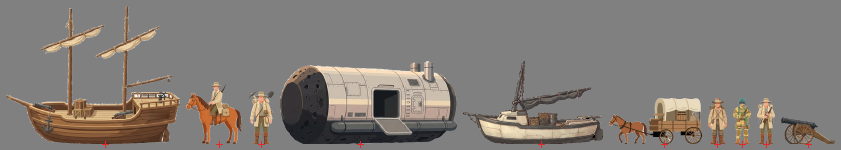
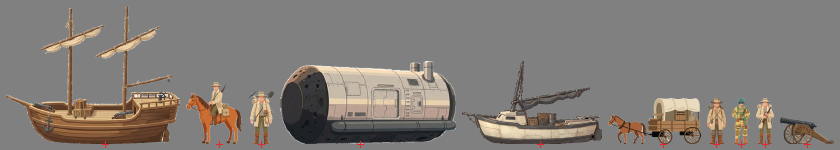
The lander comes down under its parachute, and its door is shut
While the opening lines fade in, the lander falls in stages along an arc under its parachute, one
stage as each line comes, shrinking as it falls away, and fades into the lander on the water with a
ring and its steam. The map shows the lander only once it is down, below the lines. The lander on the
water is redrawn with its door shut. DECISIONS.md 204.

Claude-Session: https://claude.ai/code/session_01UnwF8UyZDWb3Ujp9A9GwjM

diff --git a/src/ui/opening.ts b/src/ui/opening.ts
@@ -5,7 +5,7 @@
 // Nothing here reads or writes the state.
 
 import { h } from './dom'
-import { OPENING_LINE_MS, OPENING_FADE_MS } from './theme'
+import { OPENING_LINE_MS, OPENING_FADE_MS, OPENING_LINE_FADE_MS, OPENING_FIRST_MS, DESCENT } from './theme'
 
 /** The five lines, exactly as the setting brief has them. */
 export const OPENING_LINES = [
@@ -24,19 +24,95 @@ export interface Opening {
   readonly showing: boolean
 }
 
-export function mountOpening(root: HTMLElement, onDismiss?: () => void): Opening {
+/** What the descent needs of the app: where the lander lies on the screen now, and how wide it is
+ *  drawn there, in CSS pixels; and what to do when it has come down. */
+export interface DescentHooks {
+  target(): { x: number; y: number; w: number } | null
+  landed(): void
+}
+
+/** The lander under its parachute, coming down behind the lines (DECISIONS.md 204). Returns what
+ *  ends it at once, as a tap on the opening does. */
+function startDescent(root: HTMLElement, hooks: DescentHooks): () => void {
+  let landed = false
+  const land = (at: { x: number; y: number; w: number } | null) => {
+    if (landed) return
+    landed = true
+    hooks.landed()
+    if (!at) return
+    const ring = h('i', { class: 'splash', 'aria-hidden': 'true' })
+    ring.style.left = `${at.x}px`
+    ring.style.top = `${at.y}px`
+    ring.style.setProperty('--splash-w', `${at.w}px`)
+    root.append(ring)
+    window.setTimeout(() => ring.remove(), DESCENT.splashMs + 100)
+  }
+  if (typeof window.matchMedia === 'function' && window.matchMedia('(prefers-reduced-motion: reduce)').matches) { land(null); return () => {} }
+  const img = h('img', { id: 'descent', src: 'textures/descent.png', alt: '', 'aria-hidden': 'true' }) as HTMLImageElement
+  img.style.transformOrigin = DESCENT.swingFrom
+  root.append(img)
+  const lineAt = (i: number) => OPENING_FIRST_MS + i * OPENING_LINE_MS
+  const end = lineAt(DESCENT.stages.length - 1) + OPENING_LINE_FADE_MS + DESCENT.settleMs
+  const keys = [...DESCENT.stages.map((u, i) => ({ t: lineAt(i), u })), { t: end, u: 1 }]
+  const smooth = (x: number) => x * x * (3 - 2 * x)
+  const start = performance.now()
+  let raf = 0
+  let gone = false
+  const frame = () => {
+    const t = performance.now() - start
+    const W = window.innerWidth, H = window.innerHeight
+    const to = hooks.target() ?? { x: W / 2, y: H * 0.6, w: W * 0.2 }
+    let u = 1
+    if (t < keys[0].t) u = 0
+    else for (let k = 0; k < keys.length - 1; k++) {
+      if (t >= keys[k].t && t < keys[k + 1].t) { u = keys[k].u + (keys[k + 1].u - keys[k].u) * smooth((t - keys[k].t) / (keys[k + 1].t - keys[k].t)); break }
+    }
+    // a quadratic arc from high on the right, bowing out further right, down onto the lander
+    const sx = W * DESCENT.startX, sy = H * DESCENT.startY
+    const cx = Math.max(sx, to.x) + W * DESCENT.bulge, cy = (sy + to.y) / 2
+    const x = (1 - u) * (1 - u) * sx + 2 * (1 - u) * u * cx + u * u * to.x
+    const y = (1 - u) * (1 - u) * sy + 2 * (1 - u) * u * cy + u * u * to.y
+    // it shrinks as it falls away from the eye, by the same share each stage, to the lander's size
+    const w0 = Math.min(W * DESCENT.startW, DESCENT.maxStartPx), w1 = to.w / DESCENT.capsule
+    const w = w0 * Math.pow(w1 / w0, u)
+    const ratio = img.naturalWidth ? img.naturalHeight / img.naturalWidth : 1.19
+    const fadeIn = Math.min(1, Math.max(0, (t - keys[0].t) / OPENING_LINE_FADE_MS))
+    const fadeOut = 1 - Math.min(1, Math.max(0, (t - (end - DESCENT.outMs)) / DESCENT.outMs))
+    const sway = DESCENT.swayDeg * Math.sin((t / OPENING_LINE_MS) * Math.PI * 2) * (1 - u)
+    img.style.width = `${w}px`
+    img.style.transform = `translate(${x - w * DESCENT.anchorX}px, ${y - w * ratio * DESCENT.anchorY}px) rotate(${sway}deg)`
+    img.style.opacity = String(fadeIn * fadeOut * DESCENT.opacity)
+    if (t >= end - DESCENT.outMs / 2) land(to)
+    if (t < end && !gone) raf = requestAnimationFrame(frame)
+    else img.remove()
+  }
+  raf = requestAnimationFrame(frame)
+  // a tap: it is down at once, and the picture of it goes with the lines
+  return () => {
+    if (gone) return
+    gone = true
+    cancelAnimationFrame(raf)
+    img.classList.add('gone')
+    window.setTimeout(() => img.remove(), OPENING_FADE_MS + 50)
+    land(null)
+  }
+}
+
+export function mountOpening(root: HTMLElement, onDismiss?: () => void, descent?: DescentHooks): Opening {
   const lines = OPENING_LINES.map(text => h('p', { class: 'line' }, text))
   const el = h('div', { id: 'opening', 'aria-live': 'polite' }, ...lines)
   root.append(el)
   const timers: number[] = []
   // the first line a beat after the frame, so it arrives over the picture rather than with it
-  lines.forEach((line, i) => timers.push(window.setTimeout(() => line.classList.add('in'), 400 + i * OPENING_LINE_MS)))
+  lines.forEach((line, i) => timers.push(window.setTimeout(() => line.classList.add('in'), OPENING_FIRST_MS + i * OPENING_LINE_MS)))
+  const endDescent = descent ? startDescent(root, descent) : null
   let showing = true
   const dismiss = () => {
     if (!showing) return
     showing = false
     for (const t of timers) clearTimeout(t)
     el.classList.add('gone')
+    endDescent?.()
     window.setTimeout(() => el.remove(), OPENING_FADE_MS + 50)
     document.removeEventListener('pointerdown', dismiss, true)
     onDismiss?.()

diff --git a/src/ui/app.ts b/src/ui/app.ts
@@ -39,9 +39,10 @@ import { unitCard, passengerCard, tileCard, type Card } from './card'
 import { h, clear, append, button, row, muted, fmt, plural } from './dom'
 import { renderSheet, type SheetSpec } from './sheets'
 import { ownSettlements, type RingCell, type BuildingSlot } from './selectors'
-import { SHEET_DISMISS_PX, TAP_MIN_PX, RUN_SUMMARY_LINES, BAR_TITLE_CHARS, installTheme } from './theme'
+import { SHEET_DISMISS_PX, TAP_MIN_PX, RUN_SUMMARY_LINES, BAR_TITLE_CHARS, DESCENT, installTheme } from './theme'
 import { installIcons, icon, isGood, SEASON_ICONS, type IconName } from './icons'
-import { goodMark, queueIcon, dispatchIcon } from './pictures'
+import { goodMark, queueIcon, dispatchIcon, UNITS_SHEET, unitPiece } from './pictures'
+import { drawnSize } from '../render/units'
 import { mountOpening, type Opening } from './opening'
 import { TurnRunner, queueKeys } from './turns'
 import * as Save from '../io/save'
@@ -208,14 +209,31 @@ export class App {
    *  player's: it takes the lines away and starts the music, and nothing was ever blocked. */
   beginArrival() {
     this.scene.cam.centreOn(this.homeTile(), C.feel.zoom.working)
+    // the lander below the lines, so it comes down into clear water (decision 204): the view is
+    // centred that many rows of tiles north of it
+    {
+      const home = this.homeTile(), w = this.state.world.width
+      const x = (home % w) + 0.5, z = Math.floor(home / w) + 0.5
+      const [, y0] = this.scene.cam.worldToScreen(x, z)
+      const [, y1] = this.scene.cam.worldToScreen(x, z + 1)
+      const rows = Math.round(((DESCENT.landerAtY - 0.5) * window.innerHeight) / Math.max(1, Math.abs(y1 - y0)))
+      const north = Math.max(0, Math.floor(home / w) - rows) * w + (home % w)
+      if (rows > 0) this.scene.cam.centreOn(north, C.feel.zoom.working)
+    }
     this.scene.requestDraw()
     this.sheet = { kind: 'queue' }
     this.queueExpanded = false
     this.foundTarget = null
     this.scene.foundPreview = null
     this.opening?.dismiss()
-    // the lines gone, the lander is chosen, so its card says what to do: hold where to sail (decision 202)
-    this.opening = mountOpening(this.root, () => window.setTimeout(() => this.chooseLander(), 0))
+    // the lander comes down under its parachute while the lines fade in, and is on the water only
+    // once it has (decision 204); the lines gone, it is chosen, so its card says what to do (202)
+    const lander = this.state.units.find(u => u.owner === 0 && u.kind === 'lander')
+    if (lander) this.scene.hideForDescent(lander.id)
+    this.opening = mountOpening(this.root, () => window.setTimeout(() => this.chooseLander(), 0), lander ? {
+      target: () => this.onScreen(lander.id),
+      landed: () => this.scene.revealAfterDescent(DESCENT.revealMs),
+    } : undefined)
     Telemetry.newGame()
     this.refresh()
   }
@@ -694,6 +712,21 @@ export class App {
     if (typeof navigator !== 'undefined' && typeof navigator.vibrate === 'function') { try { navigator.vibrate(C.feel.holdVibrateMs) } catch { /* not everywhere */ } }
     this.renderQueueBar()
     this.placeCoach()
+  }
+
+  /** Where a unit stands on the screen and how wide it is drawn there, in CSS pixels: the middle of
+   *  its picture, for something drawn over the map to come down onto it. */
+  onScreen(unitId: number): { x: number; y: number; w: number } | null {
+    const u = this.state.units.find(x => x.id === unitId)
+    const piece = u ? UNITS_SHEET.pieces[unitPiece(u.kind) ?? ''] : undefined
+    if (!u || !piece) return null
+    const w = this.state.world.width
+    const x = (u.tile % w) + 0.5, z = Math.floor(u.tile / w) + 0.5
+    const [sx, sy] = this.scene.cam.worldToScreen(x, z)
+    const [sx2] = this.scene.cam.worldToScreen(x + 1, z)
+    const tile = Math.abs(sx2 - sx)
+    const size = drawnSize(piece)
+    return { x: sx, y: sy - size.height * tile * 0.5, w: size.width * tile }
   }
 
   /** Before the first settlement, the lander chosen whenever nothing else is, so the card under the

diff --git a/src/ui/theme.ts b/src/ui/theme.ts
@@ -40,6 +40,34 @@ export const OPENING_LINE_MS = 3500
 export const OPENING_FADE_MS = 900
 /** Each opening line's own fade in, slow enough to arrive rather than appear. */
 export const OPENING_LINE_FADE_MS = 1400
+/** The first line comes this long after the frame, so it arrives over the picture rather than with it. */
+export const OPENING_FIRST_MS = 400
+
+/** The lander coming down under its parachute while the lines fade in (DECISIONS.md 204). It falls in
+ *  stages, one as each line fades in, along an arc from high on the right to where the lander lies,
+ *  shrinking as it falls away from the eye, and splashes down a beat after the last line is in. */
+export const DESCENT = {
+  /** Where it starts, as shares of the screen, and how wide: a share of the screen, at most so many pixels. */
+  startX: 0.78, startY: 0.1, startW: 0.55, maxStartPx: 320,
+  /** How far the arc bows out to the right of a straight fall, as a share of the screen's width. */
+  bulge: 0.14,
+  /** How far along the arc it has come as each line begins to fade in. */
+  stages: [0, 0.16, 0.36, 0.58, 0.8],
+  /** From the last line fully in to splashdown. */
+  settleMs: 1400,
+  /** The fade out into the lander on the water, and the lander's fade in on the water. */
+  outMs: 1100, revealMs: 1400,
+  /** In the picture: the middle of the capsule, which comes down onto the lander, as shares of its
+   *  width and height; the share of its width the capsule takes; and the canopy, which it swings from. */
+  anchorX: 0.33, anchorY: 0.8, capsule: 0.7, swingFrom: '66% 0%',
+  /** The swing under the canopy, in degrees, dying away as it comes down; and how solid it is drawn. */
+  swayDeg: 5, opacity: 0.95,
+  /** The ring on the water at splashdown. */
+  splashMs: 1600,
+  /** Where on the screen the lander lies during the opening, as a share of its height: below the
+   *  lines, so it comes down into clear water. */
+  landerAtY: 0.7,
+}
 
 /** Version 2's ring cell and building slot. The settlement screen no longer uses them (version 3
  *  sizes its ring from the space it has); the founding preview's ring and the full screens still
@@ -218,6 +246,11 @@ export const TOKENS: Record<string, string> = {
   '--coach-small': '0.82',
   '--coach-big': '1.12',
   '--coach-nudge': '1.6',
+  // the ring on the water where the lander comes down (decision 204)
+  '--splash-ink': 'rgba(242,236,224,0.85)',
+  '--splash-flat': '0.45',
+  '--splash-grow': '2.2',
+  '--splash-ms': '1600ms',
   '--hold-ring-hole': '22px',
   '--sheet-max-h': '72vh',
   '--runsum-max-h': '50vh',       // what the turns that ran on brought, at most half the screen

diff --git a/src/render/scene.ts b/src/render/scene.ts
@@ -126,6 +126,8 @@ export class Scene {
   siteMarks: number[] | null = null
   /** The beaching: the settlement and the boat coming up out of nothing while the lander goes. */
   private fading: { k: number; settlements: Set<number>; units: Set<number> } | null = null
+  /** The opening's descent is in the air: the lander is not on the water yet, nor its steam. */
+  private descending = false
   private ghost: THREE.InstancedMesh | null = null
   beaching = false
   /** A move being drawn, between being prepared before the action and finishing after it. */
@@ -488,8 +490,35 @@ export class Scene {
     this.arrival = ab.group
     this.steamCount = ab.steaming
     if (ab.steaming && this.steamTurn !== s.turn) { this.steamTurn = s.turn; this.steamSince = performance.now() }
-    if (this.arrival) this.scene.add(this.arrival)
+    if (this.arrival) { this.arrival.visible = !this.descending; this.scene.add(this.arrival) }
     if (this.steaming()) this.startLoop()
+  }
+
+  /** The opening's descent (DECISIONS.md 204): the lander is not drawn on the water, nor its steam,
+   *  while the picture of it under its parachute comes down over the lines. */
+  hideForDescent(landerId: number) {
+    this.descending = true
+    this.fading = { k: 0, settlements: new Set(), units: new Set([landerId]) }
+    this.applyFades()
+    if (this.arrival) this.arrival.visible = false
+    this.requestDraw()
+  }
+
+  /** Splashdown: the lander comes up on the water over `ms`, and its steam starts rising now. */
+  revealAfterDescent(ms: number) {
+    if (!this.descending) return
+    this.descending = false
+    if (this.arrival) this.arrival.visible = true
+    this.steamSince = performance.now()
+    const start = performance.now()
+    const step = () => {
+      const k = Math.min(1, (performance.now() - start) / Math.max(1, ms))
+      if (this.fading && !this.beaching) { this.fading.k = k * k * (3 - 2 * k); this.applyFades() }
+      if (!this.loopRunning) this.draw(true)
+      if (k < 1) requestAnimationFrame(step)
+      else { if (!this.beaching) { this.fading = null; this.applyFades() } this.requestDraw(); if (this.steaming()) this.startLoop() }
+    }
+    requestAnimationFrame(step)
   }
 
   /** The beaching, onboarding brief section 2. The state has already changed: the lander is gone,

diff --git a/src/ui/style.css b/src/ui/style.css
@@ -116,6 +116,18 @@ body {
   transition: opacity var(--opening-fade-ms) var(--ease);
 }
 #opening.gone { opacity: 0; }
+/* the lander under its parachute, behind the lines and over the map (decision 204) */
+#descent { position: fixed; left: 0; top: 0; z-index: 2; pointer-events: none; opacity: 0; will-change: transform, opacity; }
+#descent.gone { opacity: 0 !important; transition: opacity var(--opening-fade-ms) var(--ease); }
+/* the ring on the water at splashdown */
+.splash {
+  position: fixed; z-index: 2; pointer-events: none; width: var(--splash-w); height: calc(var(--splash-w) * var(--splash-flat));
+  margin: calc(var(--splash-w) * var(--splash-flat) / -2) 0 0 calc(var(--splash-w) / -2);
+  border-radius: 50%; border: var(--coach-line) solid var(--splash-ink);
+  animation: splash var(--splash-ms) var(--ease) forwards;
+}
+@keyframes splash { from { transform: scale(0.4); opacity: 0.9; } to { transform: scale(var(--splash-grow)); opacity: 0; } }
+@media (prefers-reduced-motion: reduce) { .splash { display: none; } }
 #opening .line {
   /* not the list row of the same class: no rule beneath, no row padding */
   display: block; border: none; padding: 0; min-height: 0;

diff --git a/src/render/look.ts b/src/render/look.ts
@@ -518,7 +518,7 @@ export const ARRIVAL = {
   wake: { length: 0.9, width: 0.16, colour: '#d9e6e3', opacity: 0.55 },
   /** The steam: how many puffs, how long one lives in seconds, how far it rises and drifts in tiles
    *  (up the screen and to the right, off the wind), how large it starts and ends, and its colour. */
-  plume: { count: 7, life: 3.2, rise: 0.75, drift: 0.55, sizeFrom: 0.1, sizeTo: 0.36, colour: '#f2ece0', opacity: 0.72, stacks: [0.3, 0.72] as [number, number] },
+  plume: { count: 7, life: 3.2, rise: 0.75, drift: 0.55, sizeFrom: 0.1, sizeTo: 0.36, colour: '#f2ece0', opacity: 0.72, stacks: [0.34, 0.9] as [number, number] },
   /** How long the steam rises on a turn it is shown, in seconds from the turn's first picture of it,
    *  and how long it then takes to thin to nothing. The frame loop runs only while it does: steam
    *  that never stopped would keep the loop going under a unit sitting chosen. */

diff --git a/scripts/key-board.py b/scripts/key-board.py
@@ -13,7 +13,8 @@
 #
 # Run with:  python3 scripts/key-board.py SOURCE.jpg OUT.png DARK LIGHT
 #            DARK and LIGHT are the board's two greys, read off its corner squares. A sixth argument,
-#            faded, peels back ground drawn fading into the board.
+#            faded, peels back ground drawn fading into the board; deep, board tinted by sparks or
+#            streaks drawn over it, and pieces under 8000 pixels.
 # Needs numpy, scipy and opencv (cv2).
 
 import sys
@@ -23,7 +24,7 @@ import numpy as np
 from scipy import ndimage
 
 
-def key(path, greys, out, faded=False):
+def key(path, greys, out, faded=False, deep=False):
     a = cv2.imread(path).astype(np.float32)
     lum = a.mean(axis=2)
     chroma = a.max(axis=2) - a.min(axis=2)
@@ -46,9 +47,10 @@ def key(path, greys, out, faded=False):
     fg = (mask == cv2.GC_FGD) | (mask == cv2.GC_PR_FGD)
     # board along the edge, peeled off
     boardish = np.zeros(lum.shape, bool)
+    # deep: board tinted by sparks or streaks drawn over it, peeled however far it reaches
     for g in greys:
-        boardish |= (chroma < 16) & (np.abs(lum - g) < 26)
-    for _ in range(16):
+        boardish |= (chroma < (24 if deep else 16)) & (np.abs(lum - g) < 26)
+    for _ in range(90 if deep else 16):
         touching = ndimage.binary_dilation(~fg) & fg & boardish
         if not touching.any():
             break
@@ -87,7 +89,7 @@ def key(path, greys, out, faded=False):
     fg = ndimage.binary_opening(fg, np.ones((3, 3)))
     lbl, n = ndimage.label(fg)
     sizes = ndimage.sum(fg, lbl, range(1, n + 1))
-    fg = np.isin(lbl, [i + 1 for i in range(n) if sizes[i] > 4000])
+    fg = np.isin(lbl, [i + 1 for i in range(n) if sizes[i] > (8000 if deep else 4000)])
     holes = ndimage.binary_fill_holes(fg) & ~fg
     hl, hn = ndimage.label(holes)
     hs = ndimage.sum(holes, hl, range(1, hn + 1))
@@ -99,5 +101,5 @@ def key(path, greys, out, faded=False):
 
 if __name__ == '__main__':
     src, out, dark, light = sys.argv[1], sys.argv[2], float(sys.argv[3]), float(sys.argv[4])
-    key(src, [dark, light], out, faded=len(sys.argv) > 5 and sys.argv[5] == 'faded')
+    key(src, [dark, light], out, faded='faded' in sys.argv[5:], deep='deep' in sys.argv[5:])
     print(f'{out} keyed from {src}')

diff --git a/scripts/extract-sprites.py b/scripts/extract-sprites.py
@@ -356,12 +356,10 @@ UNITS = [
          strip=3, component=1500, resolution=0.6,
          plates=[dict(box=(770, 660, 920, 780), colour=(214, 198, 172), tolerance=38, grain=(1.0, 0.0))],
          waterline=800),
-    dict(name='lander', source='lander.jpg', people=1.8,
-         # a two toned board: the neutral checker above, a blue grey one below row 615
-         boards=[dict(rows=(0, 615)),
-                 dict(rows=(615, 1024), dark=186.0, light=222.0, tint=(0, 5, 7), low=0.92, high=1.06, chroma=12)],
-         smoke=True, resolution=0.6,
-         waterline=640),
+    # the lander, its door shut for the voyage (DECISIONS.md 204). Drawn on white, keyed first by
+    # scripts/key-board.py (lander-closed.jpg 252 252)
+    dict(name='lander', source='lander-closed.png', people=1.8, keyed=True, resolution=0.6,
+         waterline=650),
     # the lighter, the boat the lander carried, built of the lander's own panels (DECISIONS.md 201).
     # Drawn on a black and mid grey board that colour cannot key, so it is keyed first by
     # scripts/key-board.py (lighter.jpg 3 137)

diff --git a/DECISIONS.md b/DECISIONS.md
@@ -3669,6 +3669,26 @@ that starts from nothing.
   shop and the rest are drawn as the lander, once, and named "in the lander". The rules are as they
   were. A game saved before this shows the lander alone until its next building is finished.
 
+### 204. The lander comes down under its parachute while the opening is read
+
+From the owner, 22 November 2026, with two new drawings.
+
+- **The lander's door is shut.** Nobody sails with the door open: the lander on the water is redrawn
+  closed. Keyed from a white ground by `scripts/key-board.py`; the steam now rises from where its
+  stacks are in the new drawing (`ARRIVAL.plume.stacks`). The beached lander keeps its ramp down.
+- **The descent.** While the five lines fade in, the lander comes down under its parachute
+  (`public/textures/descent.png`, 57 kB, fetched only by the opening), from high on the right along
+  an arc that bows out to the right, down onto the water where the lander lies. It falls in stages,
+  one as each line begins to fade in (`DESCENT.stages`), swinging a little under the canopy, the
+  swing dying as it comes down, and it shrinks by the same share each stage as it falls away from the
+  eye, to the lander's own size on the map. A beat after the last line is in it fades into the lander
+  on the water, which comes up as it goes, with a ring spreading on the water and the steam starting
+  to rise. Until then the lander and its steam are not drawn (`hideForDescent`, `revealAfterDescent`):
+  a ship falling to a planet with nothing to help it, and then on the water. A tap takes the lines
+  away and brings the lander down at once; with reduced motion asked for, there is no descent.
+- **The opening's view** puts the lander at seven tenths of the way down the screen, below the lines,
+  so it comes down into clear water rather than under the words.
+
 ## Left out of version one
 
 - Rival diplomacy offers (`C.flags.rivalDiplomacyOffers: false`).
